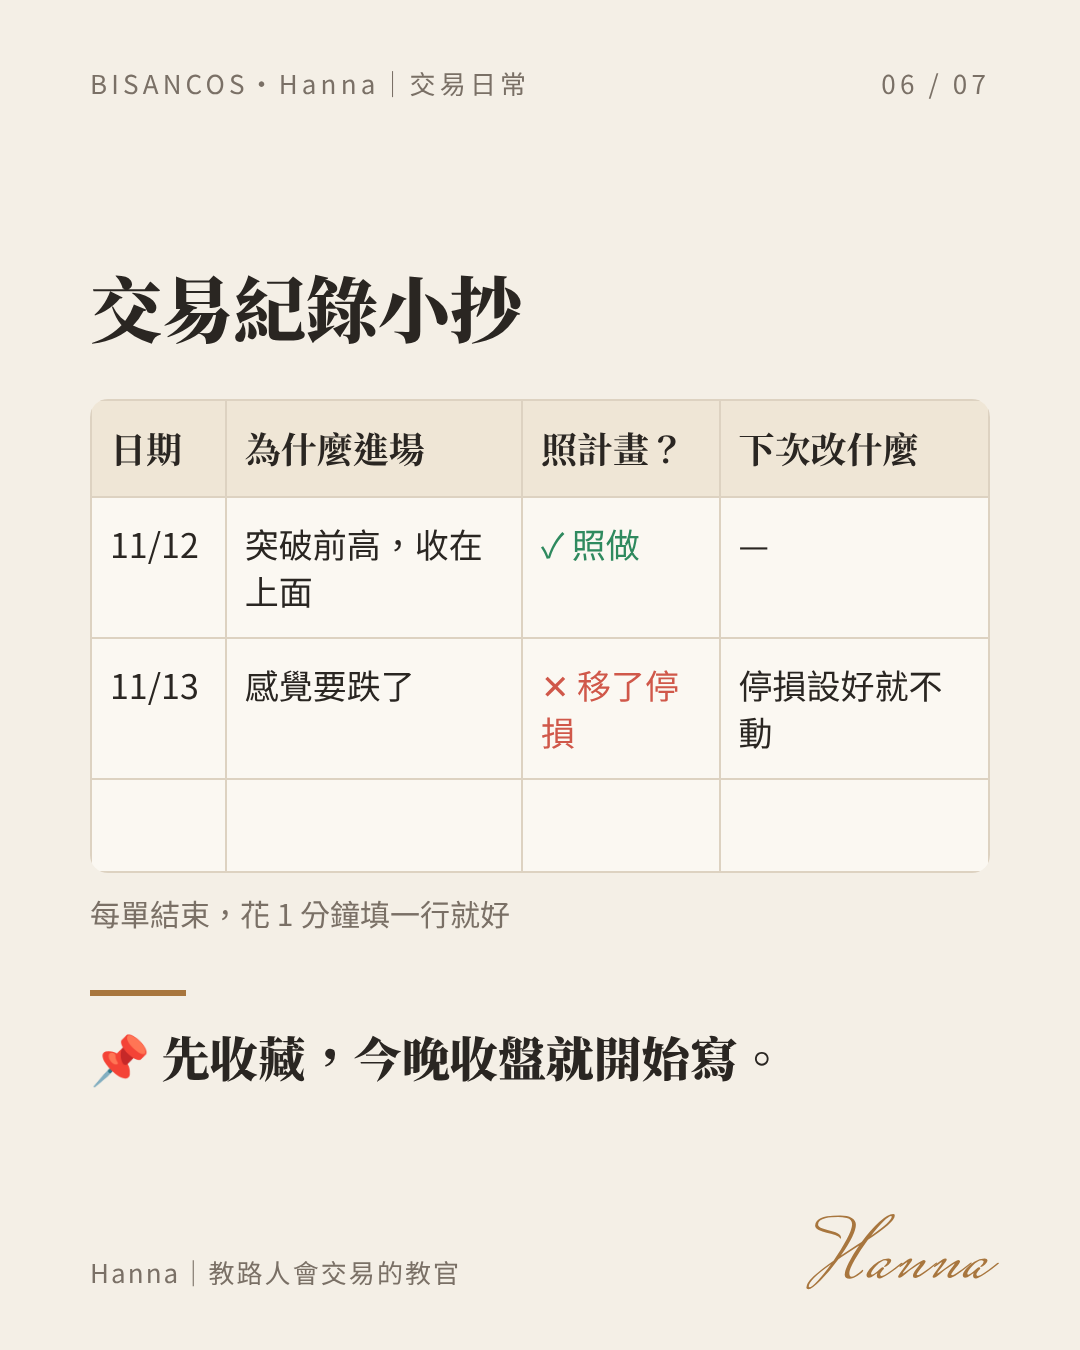
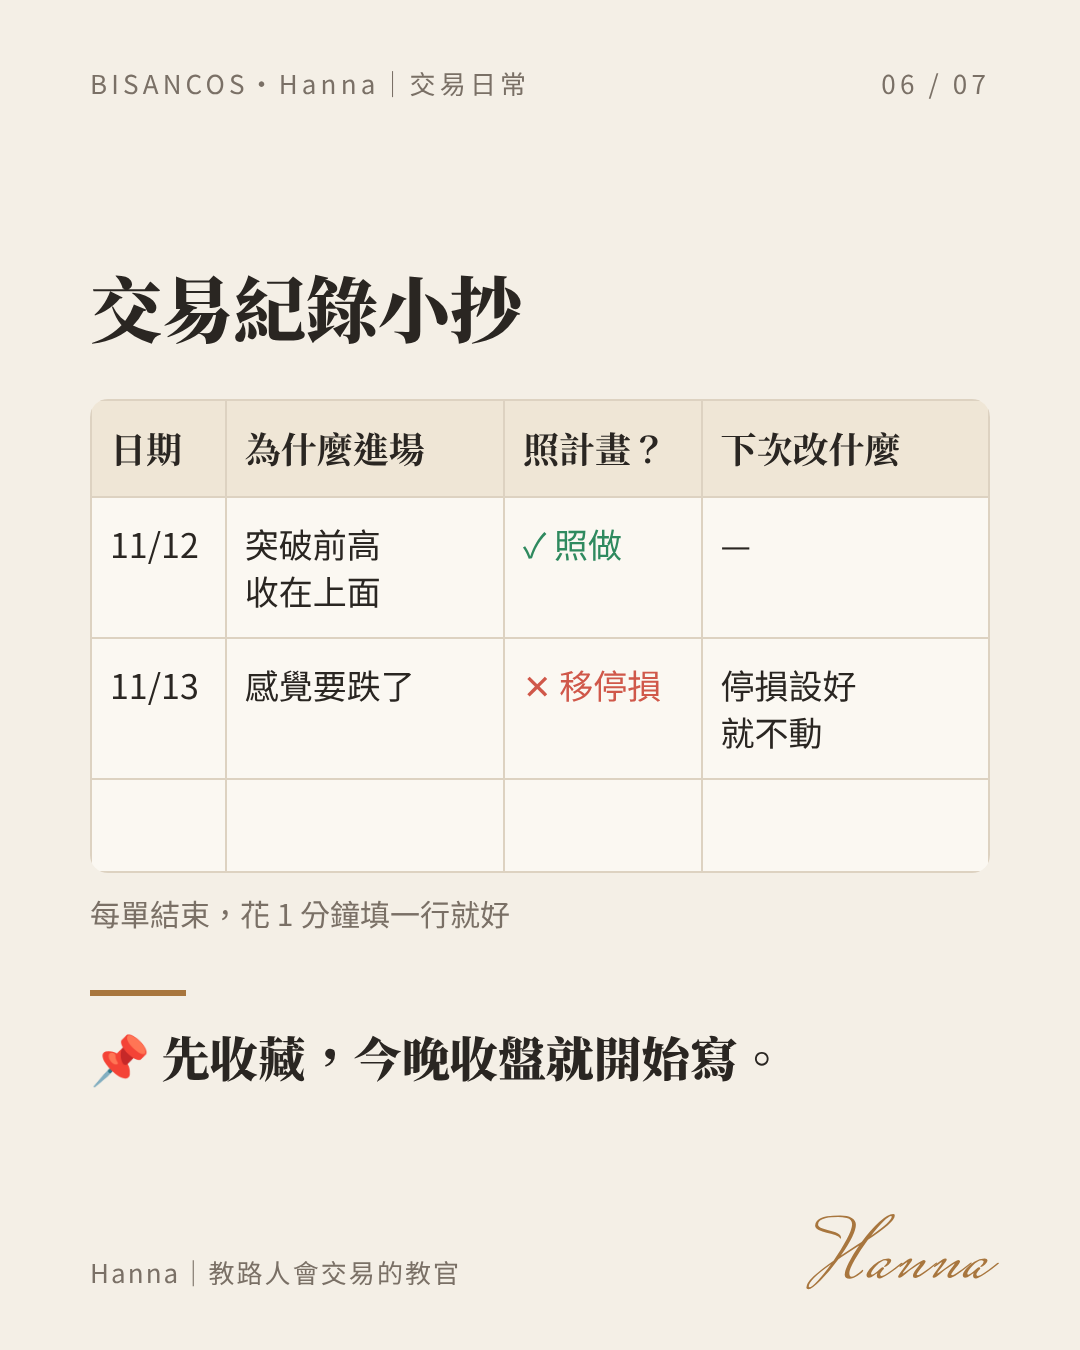
處方篇：表格斷行修正，加英文檔名預覽
Claude-Session: https://claude.ai/code/session_01AFjNkU8XspDCm6xvkskaQj

diff --git a/IP經營/輪播_收單1_處方/slides.html b/IP經營/輪播_收單1_處方/slides.html
@@ -46,9 +46,9 @@ th { font-family:"Noto Serif TC",serif; font-size:36px; background:#efe6d6; }
 <div class="card">例：下一單，停損設好就不動。<br>例：虧完先停 30 分鐘，不反手。</div>
 <div class="take">一次只改一件事，<br>改得掉，才算數。</div></div><div class="foot"><span>Hanna｜教路人會交易的教官</span><span class="sign">Hanna</span></div></section>
 <section class="slide"><div class="top"><span>BISANCOS・Hanna｜交易日常</span><span>06 / 07</span></div><div class="body"><h2>交易紀錄小抄</h2>
-<table><colgroup><col style="width:15%"><col style="width:33%"><col style="width:22%"><col style="width:30%"></colgroup><tr><th>日期</th><th>為什麼進場</th><th>照計畫？</th><th>下次改什麼</th></tr>
-<tr><td>11/12</td><td>突破前高，收在上面</td><td class="up">✓ 照做</td><td>—</td></tr>
-<tr><td>11/13</td><td>感覺要跌了</td><td class="down">✕ 移了停損</td><td>停損設好就不動</td></tr>
+<table><colgroup><col style="width:15%"><col style="width:31%"><col style="width:22%"><col style="width:32%"></colgroup><tr><th>日期</th><th>為什麼進場</th><th>照計畫？</th><th>下次改什麼</th></tr>
+<tr><td>11/12</td><td>突破前高<br>收在上面</td><td class="up">✓ 照做</td><td>—</td></tr>
+<tr><td>11/13</td><td>感覺要跌了</td><td class="down">✕ 移停損</td><td>停損設好<br>就不動</td></tr>
 <tr><td>　</td><td>　</td><td>　</td><td>　</td></tr></table>
 <p class="note">每單結束，花 1 分鐘填一行就好</p>
 <div class="take">📌 先收藏，今晚收盤就開始寫。</div></div><div class="foot"><span>Hanna｜教路人會交易的教官</span><span class="sign">Hanna</span></div></section>

diff --git a/IP經營/輪播_收單1_處方/build.py b/IP經營/輪播_收單1_處方/build.py
@@ -29,9 +29,9 @@ P.append(t.page(5, N, L, '''<div class="num">3</div><h2>下一單要改什麼？
 <div class="card">例：下一單，停損設好就不動。<br>例：虧完先停 30 分鐘，不反手。</div>
 <div class="take">一次只改一件事，<br>改得掉，才算數。</div>'''))
 P.append(t.page(6, N, L, '''<h2>交易紀錄小抄</h2>
-<table><colgroup><col style="width:15%"><col style="width:33%"><col style="width:22%"><col style="width:30%"></colgroup><tr><th>日期</th><th>為什麼進場</th><th>照計畫？</th><th>下次改什麼</th></tr>
-<tr><td>11/12</td><td>突破前高，收在上面</td><td class="up">✓ 照做</td><td>—</td></tr>
-<tr><td>11/13</td><td>感覺要跌了</td><td class="down">✕ 移了停損</td><td>停損設好就不動</td></tr>
+<table><colgroup><col style="width:15%"><col style="width:31%"><col style="width:22%"><col style="width:32%"></colgroup><tr><th>日期</th><th>為什麼進場</th><th>照計畫？</th><th>下次改什麼</th></tr>
+<tr><td>11/12</td><td>突破前高<br>收在上面</td><td class="up">✓ 照做</td><td>—</td></tr>
+<tr><td>11/13</td><td>感覺要跌了</td><td class="down">✕ 移停損</td><td>停損設好<br>就不動</td></tr>
 <tr><td>　</td><td>　</td><td>　</td><td>　</td></tr></table>
 <p class="note">每單結束，花 1 分鐘填一行就好</p>
 <div class="take">📌 先收藏，今晚收盤就開始寫。</div>'''))
